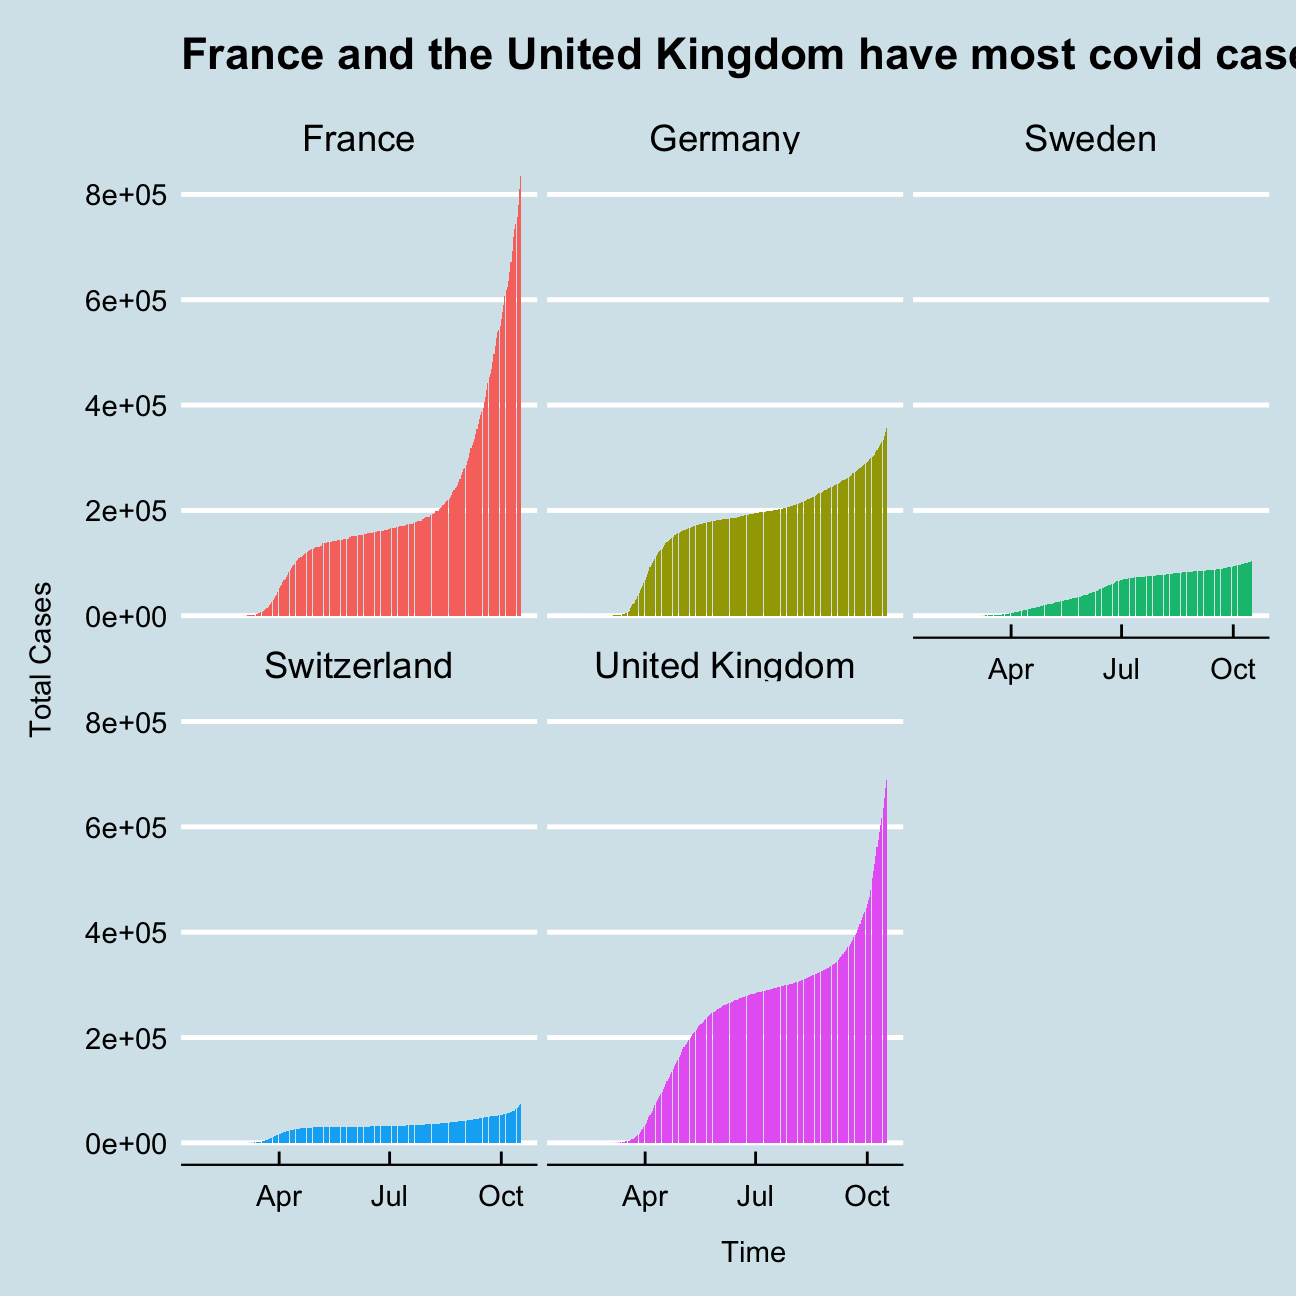
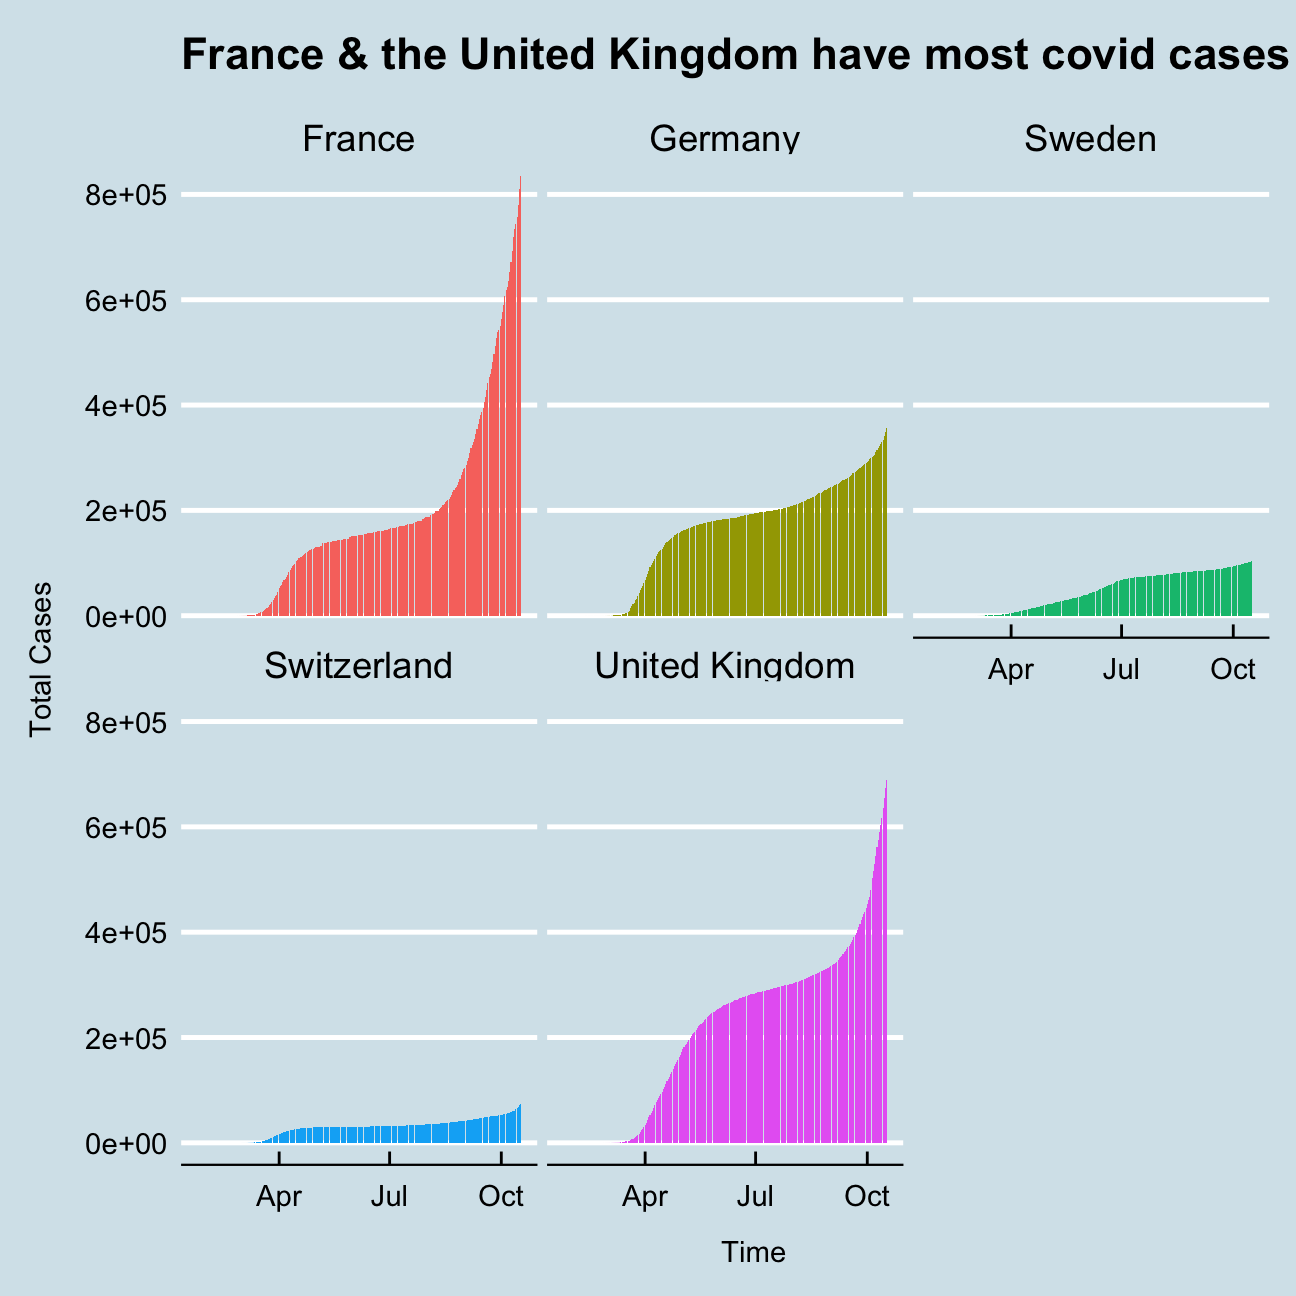
ljl

Changed region(s): [[0.2469, 0.0309, 1.0, 0.0617]]

diff --git a/public/projects/project1/index.html b/public/projects/project1/index.html
@@ -1026,7 +1026,7 @@ covid_europe</code></pre>
   facet_wrap(~location)+
   
 #add labels
-  labs(title = &quot;France and the United Kingdom have most covid cases
+  labs(title = &quot;France &amp; the United Kingdom have most covid cases
        &quot;, 
         x=&quot;
        Time&quot;, 

diff --git a/content/projects/project1.html b/content/projects/project1.html
@@ -959,7 +959,7 @@ covid_europe</code></pre>
   facet_wrap(~location)+
   
 #add labels
-  labs(title = &quot;France and the United Kingdom have most covid cases
+  labs(title = &quot;France &amp; the United Kingdom have most covid cases
        &quot;, 
         x=&quot;
        Time&quot;, 
